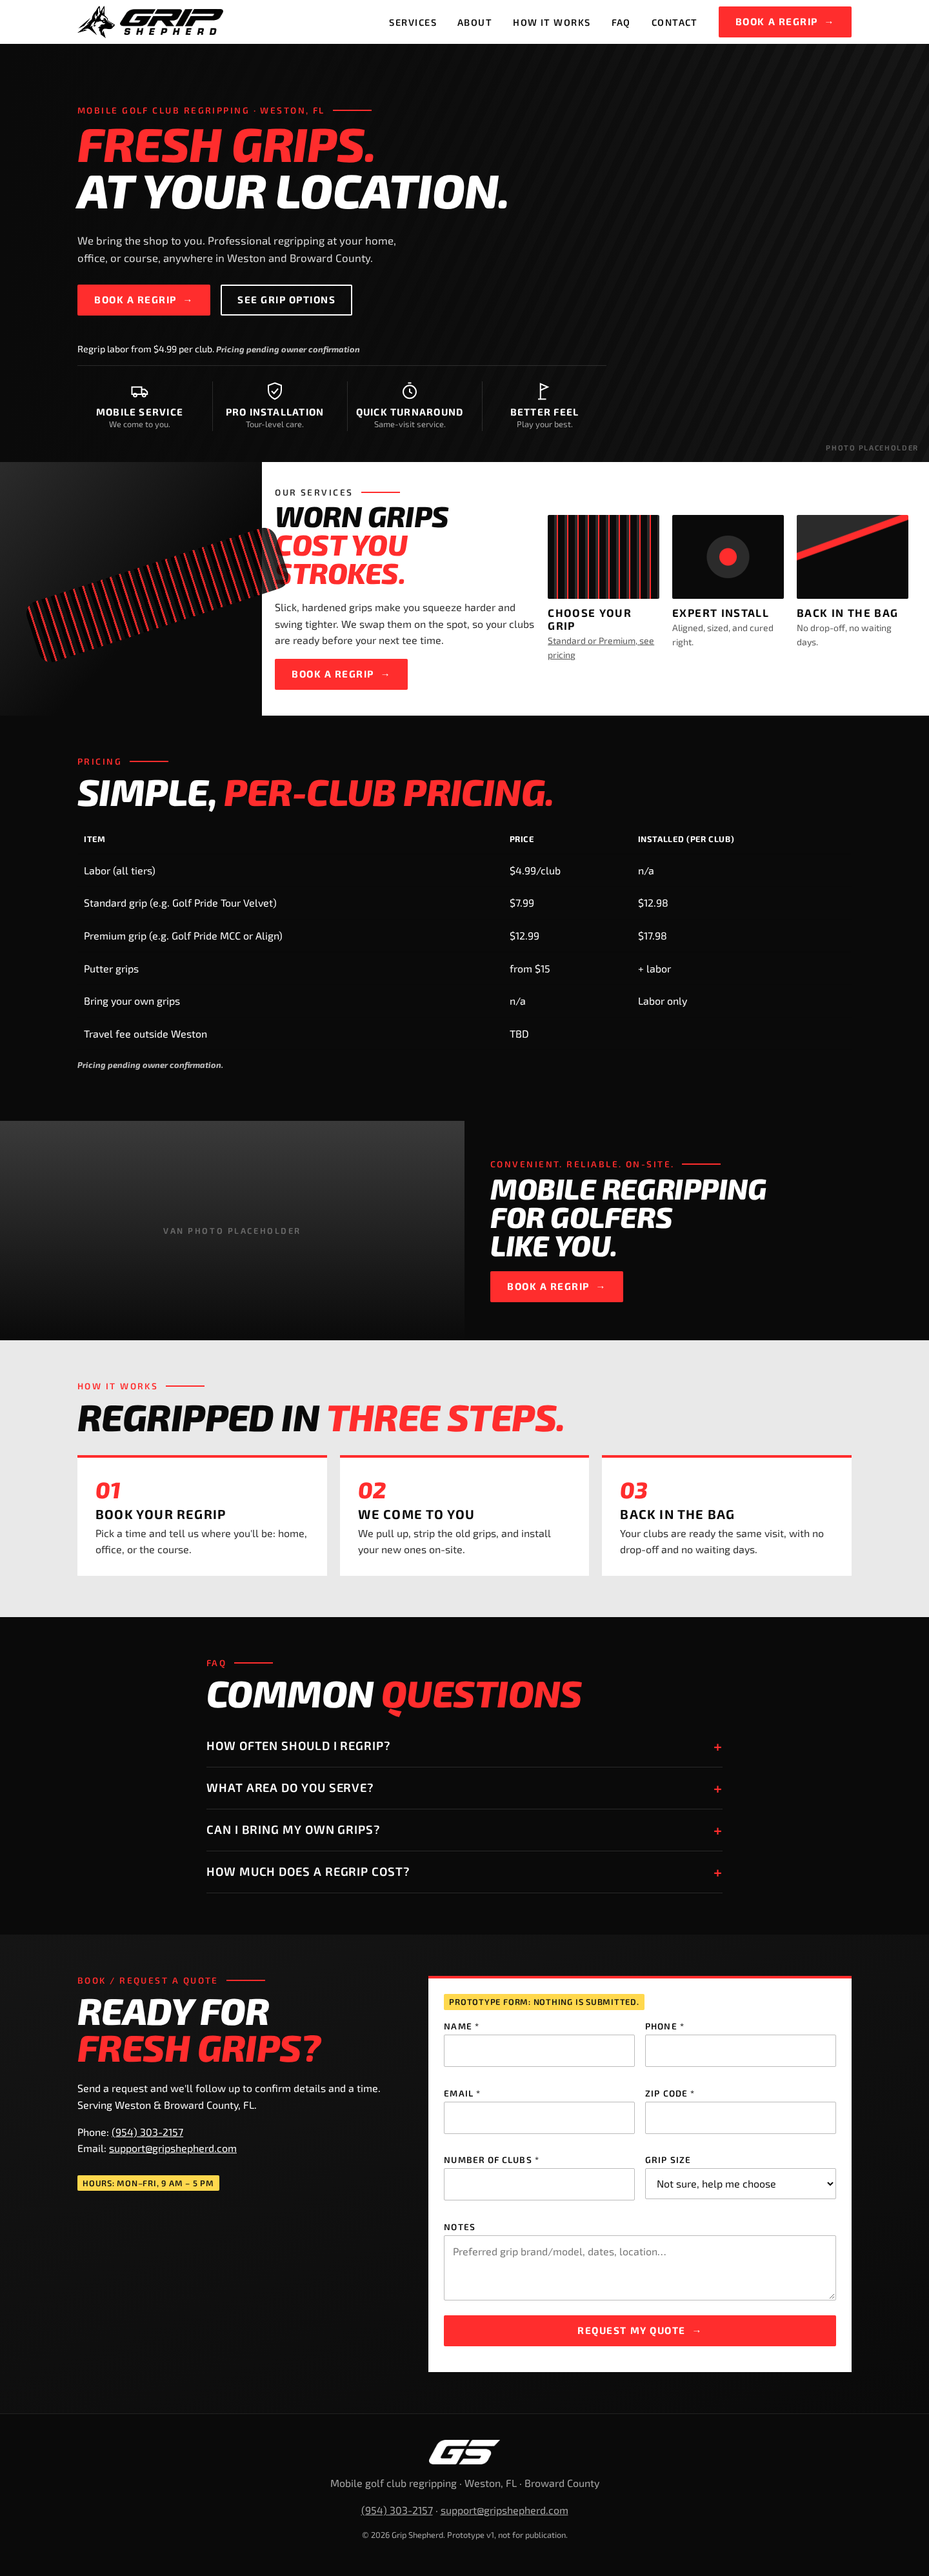
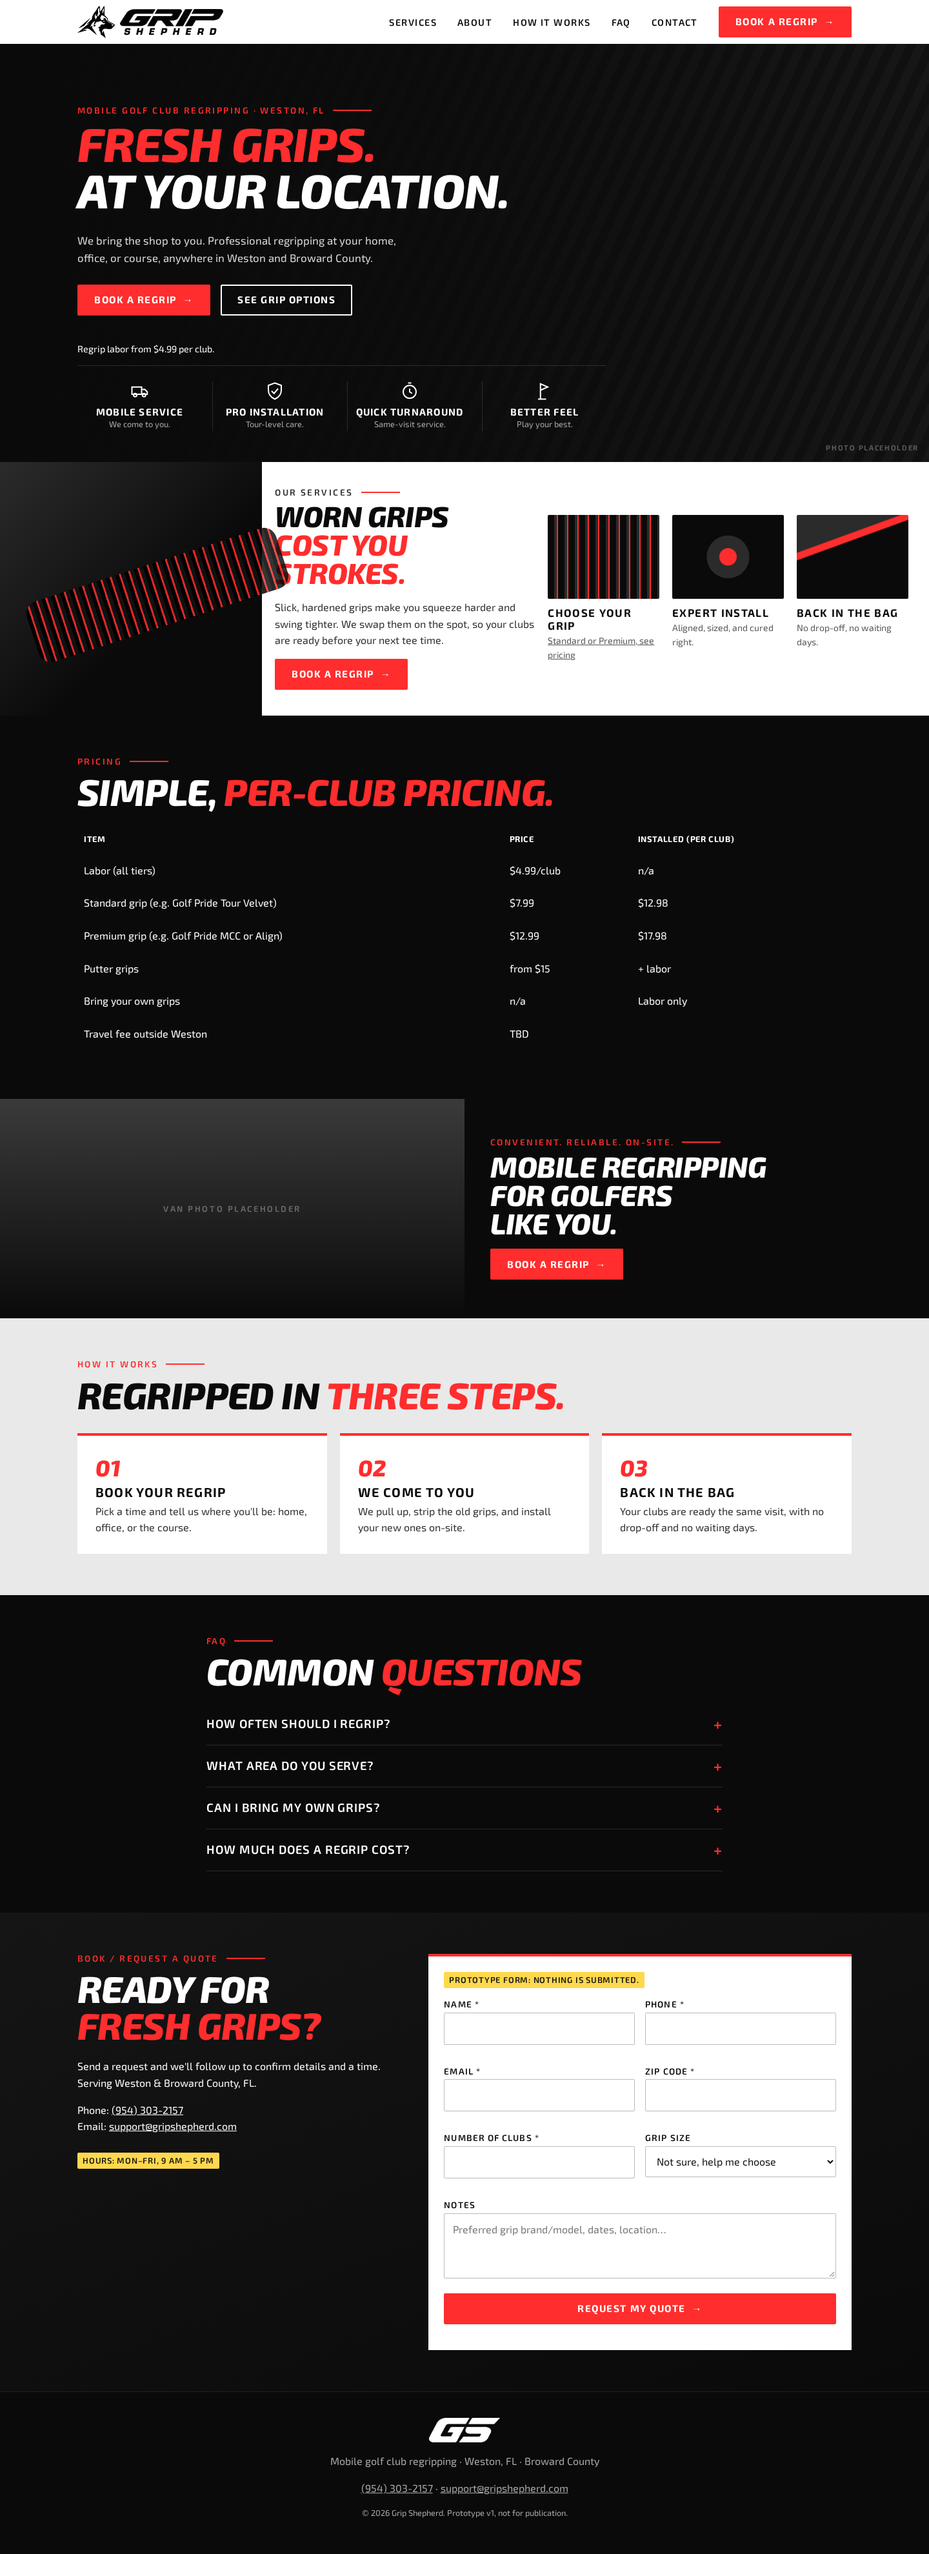
Pricing confirmed by Gilberto

diff --git a/index.html b/index.html
@@ -46,7 +46,7 @@
       <a href="#quote" class="btn btn-red">Book a Regrip <span aria-hidden="true">→</span></a>
       <a href="#services" class="btn btn-ghost">See Grip Options</a>
     </div>
-    <p class="small price-line">Regrip labor from <span data-price="labor">$4.99</span> per club. <em class="pricing-note">Pricing pending owner confirmation</em></p>
+    <p class="small price-line">Regrip labor from <span data-price="labor">$4.99</span> per club.</p>
     <ul class="features">
       <li><svg viewBox="0 0 24 24" aria-hidden="true"><path d="M2 7h12v9H2zM14 10h4l3 3v3h-7z"/><circle cx="6" cy="17" r="2"/><circle cx="17" cy="17" r="2"/></svg><strong>Mobile Service</strong><span>We come to you.</span></li>
       <li><svg viewBox="0 0 24 24" aria-hidden="true"><path d="M12 2l8 3v6c0 5-3.5 9-8 11-4.5-2-8-6-8-11V5z"/><path d="M8 12l3 3 5-6"/></svg><strong>Pro Installation</strong><span>Tour-level care.</span></li>
@@ -71,7 +71,7 @@
   </ul>
 </section>
 
-<!-- STAGED PRICING: Pricing pending owner confirmation. Prices live only in pricing.js -->
+<!-- Prices live only in pricing.js -->
 <section class="pricing" id="pricing">
   <div class="wrap">
     <p class="eyebrow">Pricing</p>
@@ -87,7 +87,6 @@
         <tr><td>Travel fee outside Weston</td><td colspan="2">TBD</td></tr>
       </tbody>
     </table>
-    <p class="small pricing-note">Pricing pending owner confirmation.</p>
   </div>
 </section>
 
@@ -121,7 +120,6 @@
     <details><summary>What area do you serve?</summary><p>We serve Weston and surrounding Broward County. Not sure if you're in range? Contact us and we'll let you know.</p></details>
     <!-- DRAFT COPY for Rex to review: BYO grips FAQ -->
     <details><summary>Can I bring my own grips?</summary><p>Yes. If you already have grips you love, have them ready and we'll install them during your visit.</p></details>
-    <!-- Pricing pending owner confirmation -->
     <details><summary>How much does a regrip cost?</summary><p>Regrip labor starts at <span data-price="labor">$4.99</span> per club. Grip prices depend on the grip you choose.</p></details>
       </div>
 </section>

diff --git a/pricing.js b/pricing.js
@@ -1,4 +1,4 @@
-// SINGLE SOURCE OF TRUTH for prices. Pricing pending owner confirmation.
+// SINGLE SOURCE OF TRUTH for prices.
 const PRICING={labor:4.99,standardGrip:7.99,premiumGrip:12.99,putterGripFrom:15};
 (function(){const f=v=>'$'+(Number.isInteger(v)?v:v.toFixed(2));
 const d={labor:PRICING.labor,standardGrip:PRICING.standardGrip,premiumGrip:PRICING.premiumGrip,putterGripFrom:PRICING.putterGripFrom,
